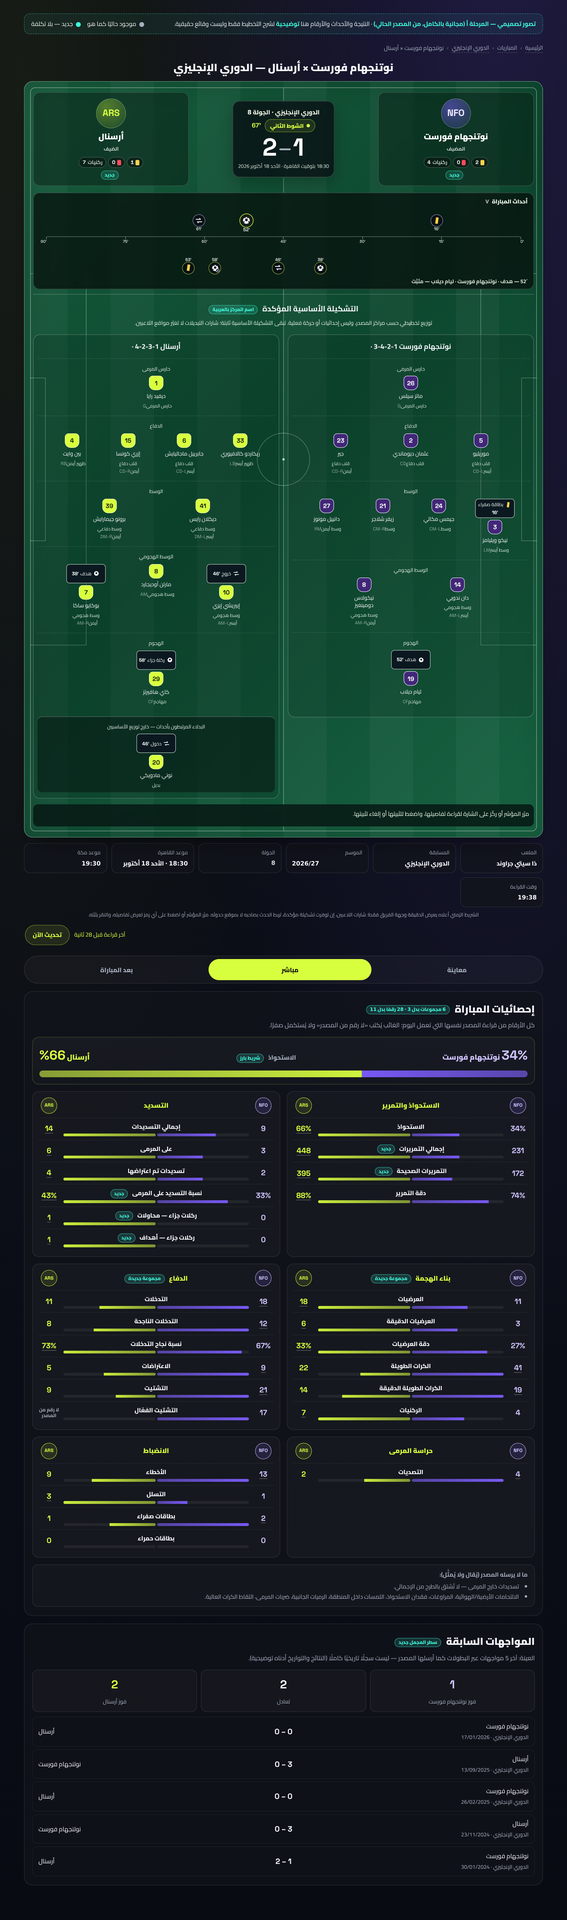
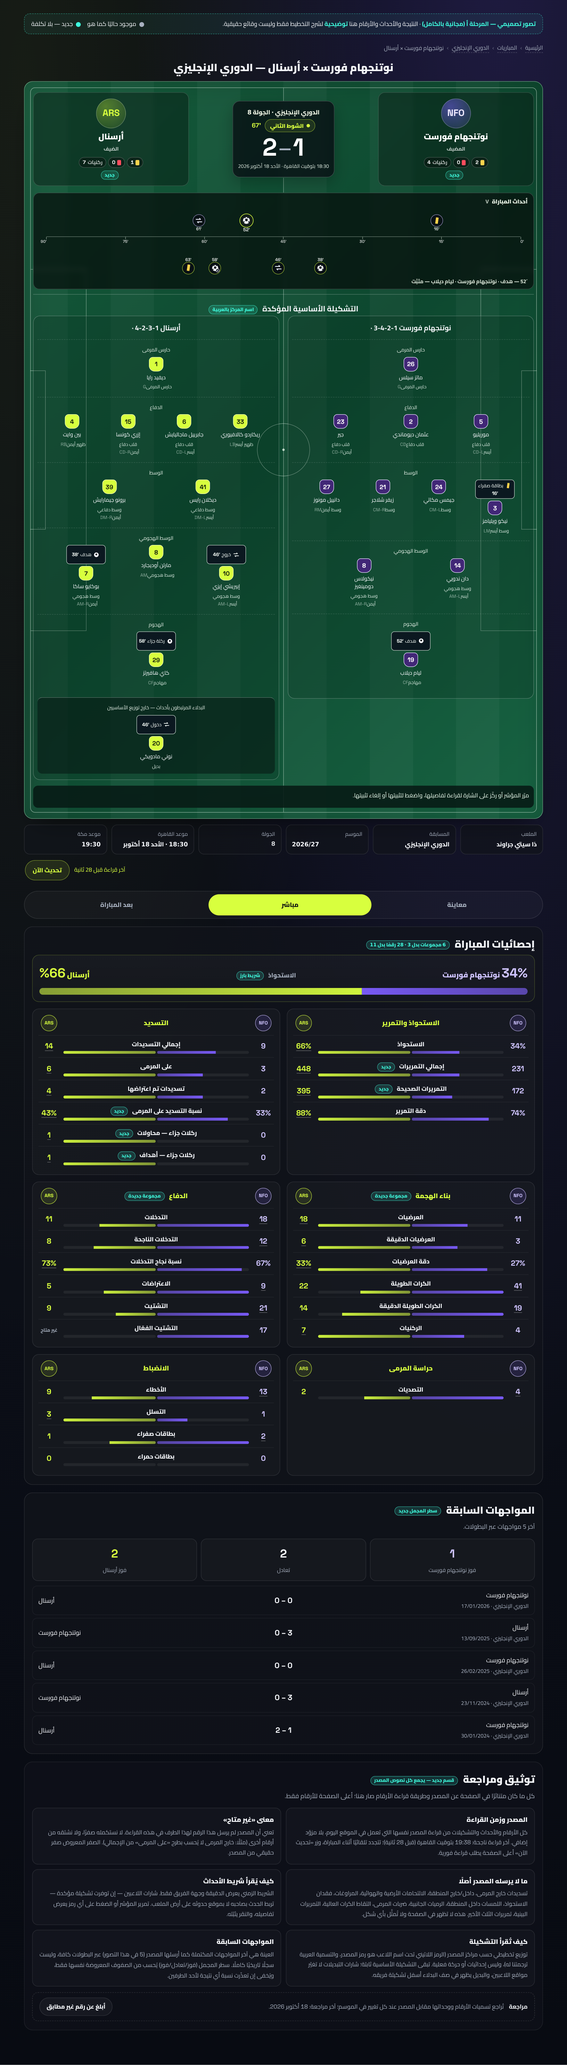
docs(match-center): مراجعة 2 — نقل كل نصوص المصدر إلى قسم «توثيق ومراجعة» آخر الصفحة
- التصور: حذف نصوص المصدر/القراءة من أماكنها (شرح التشكيلة، تنبيه شريط الأحداث، خلية وقت القراءة، مقدمة الإحصائيات، صندوق «ما لا يرسله المصدر»، مقدمة المواجهات) وجمعها في قسم جديد آخر الصفحة
- «لا رقم من المصدر» → «غير متاح» مع شرحها في القسم الجديد
- رسالة المطوّر: بند 3.8 الجديد + تحديث الاختبارات ومعايير القبول
- إعادة توليد اللقطتين

diff --git a/website/docs/mockups/match-center-stats-mockup.html b/website/docs/mockups/match-center-stats-mockup.html
@@ -211,6 +211,17 @@
   .mc-h2h-list .sc { font-weight: 900; font-family: var(--font-latin); font-size: 1rem; }
   .mc-h2h-list .r { text-align: start; } .mc-h2h-list .l { text-align: end; }
 
+  /* توثيق ومراجعة */
+  .mc-docs { border-color: rgba(255,255,255,.08); background: rgba(16,19,27,.55); }
+  .mc-docs-grid { display: grid; gap: 10px; }
+  @media (min-width: 900px) { .mc-docs-grid { grid-template-columns: 1fr 1fr; } }
+  .mc-doc { min-width: 0; padding: 12px 14px; border: 1px solid var(--mc-line); border-radius: 12px; background: rgba(255,255,255,.02); }
+  .mc-doc h3 { margin: 0 0 4px; font-size: .84rem; font-weight: 900; color: var(--mc-text); }
+  .mc-doc p { margin: 0; color: var(--mc-muted); font-size: .76rem; line-height: 1.75; }
+  .mc-docs-review { display: flex; flex-wrap: wrap; align-items: center; justify-content: space-between; gap: 10px 16px; margin-top: 12px; padding: 10px 14px; border: 1px dashed rgba(255,255,255,.14); border-radius: 12px; color: var(--mc-muted); font-size: .76rem; }
+  .mc-docs-review strong { color: var(--mc-text); margin-inline-end: 8px; }
+  .mc-report { min-height: 38px; padding: 6px 14px; border: 1px solid var(--mc-line); border-radius: 999px; background: rgba(255,255,255,.04); color: var(--mc-text); font-size: .76rem; font-weight: 800; }
+
   @media (max-width: 767px) {
     .mc-lineup-squads { grid-template-columns: minmax(0, 1fr); gap: 14px; }
     .mc-lineup-player { flex-basis: 21%; }
@@ -230,7 +241,7 @@
 <div class="mc-container">
 
   <div class="mock-banner" role="note">
-    <div><strong>تصور تصميمي — المرحلة أ (مجانية بالكامل، من المصدر الحالي)</strong> · النتيجة والأحداث والأرقام هنا <strong>توضيحية</strong> لشرح التخطيط فقط وليست وقائع حقيقية.</div>
+    <div><strong>تصور تصميمي — المرحلة أ (مجانية بالكامل)</strong> · النتيجة والأحداث والأرقام هنا <strong>توضيحية</strong> لشرح التخطيط فقط وليست وقائع حقيقية.</div>
     <div class="legend"><span class="l-now">موجود حاليًا كما هو</span><span class="l-new">جديد — بلا تكلفة</span></div>
   </div>
 
@@ -314,7 +325,6 @@
       <!-- التشكيلة الثابتة على الملعب — كما هي + اسم المركز بالعربية (جديد) -->
       <section class="mc-pitch-lineups" aria-label="التشكيلة الأساسية المؤكدة على الملعب">
         <h2>التشكيلة الأساسية المؤكدة <span class="tag">اسم المركز بالعربية</span></h2>
-        <p class="mc-lineup-explainer">توزيع تخطيطي حسب مراكز المصدر، وليس إحداثيات أو حركة فعلية. تبقى التشكيلة الأساسية ثابتة؛ شارات التبديلات لا تغيّر مواقع اللاعبين.</p>
         <div class="mc-lineup-squads">
 
           <section class="mc-lineup-squad" data-side="home" aria-label="نوتنجهام فورست">
@@ -381,9 +391,7 @@
       <div><dt>الجولة</dt><dd class="mc-num">8</dd></div>
       <div><dt>موعد القاهرة</dt><dd>18:30 · الأحد 18 أكتوبر</dd></div>
       <div><dt>موعد مكة</dt><dd>19:30</dd></div>
-      <div><dt>وقت القراءة</dt><dd>19:38</dd></div>
     </dl>
-    <p class="mc-pitch-disclaimer">الشريط الزمني أعلاه يعرض الدقيقة وجهة الفريق فقط؛ شارات اللاعبين، إن توفرت تشكيلة مؤكدة، تربط الحدث بصاحبه لا بموقع حدوثه. مرّر المؤشر أو اضغط على أي رمز لعرض تفاصيله، والنقر يثبّته.</p>
   </section>
 
   <div class="mc-meta"><div class="mc-meta-service"><span class="mc-read" data-level="fresh">آخر قراءة قبل 28 ثانية</span><button class="mc-refresh" type="button">تحديث الآن</button></div></div>
@@ -397,7 +405,6 @@
   <!-- ====== لوحة الإحصائيات — 6 مجموعات بدل 3 ====== -->
   <section class="mc-panel" aria-labelledby="stats-h">
     <h2 id="stats-h">إحصائيات المباراة <span class="tag">6 مجموعات بدل 3 · 28 رقمًا بدل 11</span></h2>
-    <p class="lead">كل الأرقام من قراءة المصدر نفسها التي تعمل اليوم؛ الغائب يُكتب «لا رقم من المصدر» ولا يُستكمل صفرًا.</p>
 
     <div class="mc-possession">
       <div class="mc-possession-head">
@@ -444,7 +451,7 @@
         <div class="mc-stat-row"><span class="mc-stat-val home">67%</span><div class="mc-stat-mid"><span class="mc-stat-label">نسبة نجاح التدخلات</span><div class="mc-stat-bars"><span class="mc-stat-bar home"><i style="width:92%"></i></span><span class="mc-stat-bar away"><i style="width:100%"></i></span></div></div><span class="mc-stat-val away lead">73%</span></div>
         <div class="mc-stat-row"><span class="mc-stat-val home lead">9</span><div class="mc-stat-mid"><span class="mc-stat-label">الاعتراضات</span><div class="mc-stat-bars"><span class="mc-stat-bar home"><i style="width:100%"></i></span><span class="mc-stat-bar away"><i style="width:56%"></i></span></div></div><span class="mc-stat-val away">5</span></div>
         <div class="mc-stat-row"><span class="mc-stat-val home lead">21</span><div class="mc-stat-mid"><span class="mc-stat-label">التشتيت</span><div class="mc-stat-bars"><span class="mc-stat-bar home"><i style="width:100%"></i></span><span class="mc-stat-bar away"><i style="width:43%"></i></span></div></div><span class="mc-stat-val away">9</span></div>
-        <div class="mc-stat-row"><span class="mc-stat-val home">17</span><div class="mc-stat-mid"><span class="mc-stat-label">التشتيت الفعّال</span><div class="mc-stat-bars"><span class="mc-stat-bar home"><i style="width:100%"></i></span><span class="mc-stat-bar away"><i style="width:0%"></i></span></div></div><span class="mc-stat-none">لا رقم من المصدر</span></div>
+        <div class="mc-stat-row"><span class="mc-stat-val home">17</span><div class="mc-stat-mid"><span class="mc-stat-label">التشتيت الفعّال</span><div class="mc-stat-bars"><span class="mc-stat-bar home"><i style="width:100%"></i></span><span class="mc-stat-bar away"><i style="width:0%"></i></span></div></div><span class="mc-stat-none">غير متاح</span></div>
       </article>
 
       <article class="mc-stat-group">
@@ -461,19 +468,12 @@
       </article>
     </div>
 
-    <div class="mc-notes">
-      <strong>ما لا يرسله المصدر (يُقال ولا يُمثَّل):</strong>
-      <ul>
-        <li>تسديدات خارج المرمى — لا تُشتق بالطرح من الإجمالي.</li>
-        <li>الالتحامات الأرضية/الهوائية، المراوغات، فقدان الاستحواذ، اللمسات داخل المنطقة، الرميات الجانبية، ضربات المرمى، التقاط الكرات العالية.</li>
-      </ul>
-    </div>
   </section>
 
   <!-- ====== المواجهات السابقة — سطر المجمل جديد ====== -->
   <section class="mc-panel" aria-labelledby="h2h-h">
     <h2 id="h2h-h">المواجهات السابقة <span class="tag">سطر المجمل جديد</span></h2>
-    <p class="lead">العينة: آخر 5 مواجهات عبر البطولات كما أرسلها المصدر — ليست سجلًا تاريخيًا كاملًا (النتائج والتواريخ أدناه توضيحية).</p>
+    <p class="lead">آخر 5 مواجهات عبر البطولات.</p>
     <div class="mc-h2h-agg">
       <div class="mc-h2h-cell home"><b>1</b><small>فوز نوتنجهام فورست</small></div>
       <div class="mc-h2h-cell"><b>2</b><small>تعادل</small></div>
@@ -486,6 +486,45 @@
       <li><span class="r">أرسنال<br><span class="meta">الدوري الإنجليزي · 23/11/2024</span></span><span class="sc">3 – 0</span><span class="l">نوتنجهام فورست</span></li>
       <li><span class="r">نوتنجهام فورست<br><span class="meta">الدوري الإنجليزي · 30/01/2024</span></span><span class="sc">1 – 2</span><span class="l">أرسنال</span></li>
     </ul>
+  </section>
+
+  <!-- ====== توثيق ومراجعة — كل ما يخص المصدر وطريقة القراءة، في مكان واحد ====== -->
+  <section class="mc-panel mc-docs" aria-labelledby="docs-h">
+    <h2 id="docs-h">توثيق ومراجعة <span class="tag">قسم جديد — يجمع كل نصوص المصدر</span></h2>
+    <p class="lead">كل ما كان متناثرًا في الصفحة عن المصدر وطريقة قراءة الأرقام صار هنا؛ أعلى الصفحة للأرقام فقط.</p>
+    <div class="mc-docs-grid">
+      <article class="mc-doc">
+        <h3>المصدر وزمن القراءة</h3>
+        <p>كل الأرقام والأحداث والتشكيلات من قراءة المصدر نفسها التي تعمل في الموقع اليوم، بلا مزوّد إضافي. آخر قراءة ناجحة: <span class="num">19:38</span> بتوقيت القاهرة (قبل <span class="num">28</span> ثانية)؛ تتجدد تلقائيًا أثناء المباراة، وزر «تحديث الآن» أعلى الصفحة يطلب قراءة فورية.</p>
+      </article>
+      <article class="mc-doc">
+        <h3>معنى «غير متاح»</h3>
+        <p>تعني أن المصدر لم يرسل هذا الرقم لهذا الطرف في هذه القراءة. لا نستكمله صفرًا، ولا نشتقه من أرقام أخرى (مثلًا: خارج المرمى لا يُحسب بطرح «على المرمى» من الإجمالي). الصفر المعروض صفر حقيقي من المصدر.</p>
+      </article>
+      <article class="mc-doc">
+        <h3>ما لا يرسله المصدر أصلًا</h3>
+        <p>تسديدات خارج المرمى، داخل/خارج المنطقة، الالتحامات الأرضية والهوائية، المراوغات، فقدان الاستحواذ، اللمسات داخل المنطقة، الرميات الجانبية، ضربات المرمى، التقاط الكرات العالية، التمريرات البينية، تمريرات الثلث الأخير. هذه لا تظهر في الصفحة ولا تُمثَّل بأي شكل.</p>
+      </article>
+      <article class="mc-doc">
+        <h3>كيف يُقرأ شريط الأحداث</h3>
+        <p>الشريط الزمني يعرض الدقيقة وجهة الفريق فقط. شارات اللاعبين — إن توفرت تشكيلة مؤكدة — تربط الحدث بصاحبه لا بموقع حدوثه على أرض الملعب. تمرير المؤشر أو الضغط على أي رمز يعرض تفاصيله، والنقر يثبّته.</p>
+      </article>
+      <article class="mc-doc">
+        <h3>كيف تُقرأ التشكيلة</h3>
+        <p>توزيع تخطيطي حسب مراكز المصدر (الرمز اللاتيني تحت اسم اللاعب هو رمز المصدر، والتسمية العربية ترجمتنا له)، وليس إحداثيات أو حركة فعلية. تبقى التشكيلة الأساسية ثابتة؛ شارات التبديلات لا تغيّر مواقع اللاعبين، والبديل يظهر في صف البدلاء أسفل تشكيلة فريقه.</p>
+      </article>
+      <article class="mc-doc">
+        <h3>المواجهات السابقة</h3>
+        <p>العينة هي آخر المواجهات المكتملة كما أرسلها المصدر (<span class="num">5</span> في هذا التصور) عبر البطولات كافة، وليست سجلًا تاريخيًا كاملًا. سطر المجمل (فوز/تعادل/فوز) يُحسب من الصفوف المعروضة نفسها فقط، ويُخفى إن تعذّرت نسبة أي نتيجة لأحد الطرفين.</p>
+      </article>
+    </div>
+    <div class="mc-docs-review">
+      <div>
+        <strong>مراجعة</strong>
+        <span>تُراجع تسميات الأرقام ووحداتها مقابل المصدر عند كل تغيير في الموسم؛ آخر مراجعة: <span class="num">18</span> أكتوبر <span class="num">2026</span>.</span>
+      </div>
+      <button type="button" class="mc-report">أبلغ عن رقم غير مطابق</button>
+    </div>
   </section>
 
 </div>

diff --git a/website/docs/mockups/match-center-phase-a-dev-brief.md b/website/docs/mockups/match-center-phase-a-dev-brief.md
@@ -1,6 +1,6 @@
 # رسالة إلى المطوّر — تنفيذ المرحلة أ (المجانية) في مركز المباراة وفق التصور الجديد
 
-**التاريخ:** 18 أكتوبر 2026 · **الأولوية:** متوسطة · **التقدير:** يوم إلى يومان عمل
+**التاريخ:** 18 أكتوبر 2026 (مراجعة 2: قسم «توثيق ومراجعة») · **الأولوية:** متوسطة · **التقدير:** يوم إلى يومان عمل
 
 ---
 
@@ -10,6 +10,9 @@
 (ESPN `summary.boxscore.teams[].statistics`) **بلا أي مزوّد جديد ولا تكلفة**، مع أربع
 إضافات بصرية صغيرة. **الملعب الحالي (الإطار الأخضر + شريط الأحداث + ملعب التشكيلة) يبقى
 كما هو تمامًا**؛ لا نلمس منطقه ولا تخطيطه.
+
+**مراجعة 2:** كل النصوص التي تتحدث عن المصدر أو طريقة قراءة الأرقام **تُحذف من أماكنها
+المتفرقة وتُجمع في قسم واحد آخر الصفحة بعنوان «توثيق ومراجعة»** (التفصيل في 3.8).
 
 ---
 
@@ -33,8 +36,9 @@
 1. **المصدر الحالي فقط.** لا استدعاءات جديدة، لا مزوّد مدفوع، لا نسخ أو كشط من أي موقع آخر.
 2. **لا اشتقاق.** «خارج المرمى» لا يُحسب بطرح «على المرمى» من الإجمالي، ولا أي قيمة مشتقة
    من قيمتين (الاختبار الحالي في `test-match-center-php.mjs` يحرس هذا — أبقه).
-3. **الغياب غياب.** القيمة `null` تُعرض «لا رقم من المصدر»، ولا تُستكمل صفرًا، والصف الذي
-   لا قيمة فيه للطرفين لا يُرسل أصلًا (سلوك `mc_read_statistics` الحالي — أبقه).
+3. **الغياب غياب.** القيمة `null` تُعرض بكلمة **«غير متاح»** (بدل «لا رقم من المصدر» — انظر 3.8)،
+   ولا تُستكمل صفرًا، والصف الذي لا قيمة فيه للطرفين لا يُرسل أصلًا (سلوك `mc_read_statistics`
+   الحالي — أبقه). معنى الكلمة يُشرح مرة واحدة في قسم «توثيق ومراجعة».
 4. **الملعب لا يُمس.** `.mc-pitch-frame` و`.mc-pitch-events` و`.mc-pitch-lineups` ومنطقها
    في `MatchCenterVisuals.tsx` تبقى كما هي؛ الإضافتان داخلها (العدّادات واسم المركز)
    إضافة عناصر فقط بلا تغيير في البنية أو السلوك.
@@ -189,6 +193,39 @@ export const STAT_GROUPS = [
 نقاط الاستجابة: ≤900px المجموعات عمود واحد؛ ≤767px التشكيلتان تحت بعضهما (قائم)؛
 ≤480px إخفاء العلامات الدقيقة للمحور (`.mc-pitch-tick--minor`، قائم).
 
+### 3.8 قسم «توثيق ومراجعة» آخر الصفحة (مراجعة 2) — وحذف نصوص المصدر من أماكنها
+
+**المبدأ:** أعلى الصفحة للأرقام فقط؛ أي جملة عن المصدر أو زمن القراءة أو طريقة قراءة
+الأرقام تُنقل إلى لوحة واحدة آخر الصفحة `section.mc-panel.mc-docs` بعنوان «توثيق ومراجعة».
+النصوص الجاهزة حرفيًا في التصور (`match-center-stats-mockup.html`، آخر `<section>`).
+
+**ما يُحذف من مكانه الحالي (وينتقل إلى القسم):**
+
+| المكان الحالي | النص | إلى أين |
+|---|---|---|
+| `MatchCenterVisuals.tsx` ~80 `.mc-lineup-explainer` | «توزيع تخطيطي حسب مراكز المصدر…» | بطاقة «كيف تُقرأ التشكيلة» |
+| `MatchCenterVisuals.tsx` ~460 `.mc-pitch-disclaimer` | «الشريط الزمني أعلاه يعرض الدقيقة وجهة الفريق فقط…» | بطاقة «كيف يُقرأ شريط الأحداث» |
+| `MatchCenterVisuals.tsx` ~457 خلية `وقت القراءة` في `dl.mc-match-facts` | قيمة `readAtLabel` | بطاقة «المصدر وزمن القراءة» |
+| `MatchCenterStatGroups.tsx` ~31 `.mc-stat-side-none` | «لا رقم من المصدر» → تصبح **«غير متاح»** | شرحها في بطاقة «معنى «غير متاح»» |
+| صندوق «ما لا يرسله المصدر» (جديد في المرحلة أ) | القائمة | بطاقة «ما لا يرسله المصدر أصلًا» |
+| نص العينة فوق قائمة المواجهات | «آخر N مواجهات كما أرسلها المصدر…» → يبقى سطر محايد «آخر N مواجهات عبر البطولات.» | بطاقة «المواجهات السابقة» |
+
+**ما يبقى في مكانه:** سطر الحالة `.mc-meta` («آخر قراءة قبل N ثانية» + زر «تحديث الآن»)
+لأنه عنصر تحكم حي لا نصًا توضيحيًا؛ وتلميح التفاعل أسفل التشكيلة `.mc-lineup-event-detail`.
+
+**بنية القسم (6 بطاقات + سطر مراجعة):**
+1. المصدر وزمن القراءة — يحتوي `readAtLabel` وعمر القراءة، وإشارة إلى زر «تحديث الآن».
+2. معنى «غير متاح» — لا صفر، لا اشتقاق، الصفر المعروض صفر حقيقي.
+3. ما لا يرسله المصدر أصلًا — القائمة الثابتة.
+4. كيف يُقرأ شريط الأحداث — نص `.mc-pitch-disclaimer` الحالي.
+5. كيف تُقرأ التشكيلة — نص `.mc-lineup-explainer` الحالي + جملة عن الرمز اللاتيني والتسمية العربية.
+6. المواجهات السابقة — العينة وطريقة حساب سطر المجمل.
+7. سطر «مراجعة»: تاريخ آخر مراجعة للتسميات (ثابت من إعدادات/ثابت في الكود) + زر «أبلغ عن رقم غير مطابق»
+   (يفتح قناة الإبلاغ الحالية في الموقع إن وُجدت؛ وإلا `mailto:` مؤقتًا — لا نبني نموذجًا جديدًا الآن).
+
+**فئات CSS:** `.mc-docs`, `.mc-docs-grid` (عمودان ≥900px), `.mc-doc`, `.mc-docs-review`, `.mc-report`
+— جاهزة في `<style>` التصور.
+
 ---
 
 ## 4. حالات الحافة التي يجب أن تُختبر
@@ -198,6 +235,7 @@ export const STAT_GROUPS = [
 | قبل المباراة، `statistics === null` | لا شريط استحواذ، لا عدّادات، لا صندوق «ما لا يرسله المصدر»؛ باقي الصفحة كما اليوم |
 | المصدر يرسل جهة واحدة فقط لصف ما | القيمة الموجودة تُعرض، والأخرى «لا رقم من المصدر»، والشريط للطرف الموجود فقط |
 | صفر حقيقي (`0` من المصدر) | يُعرض `0` ولا يُعامل كغياب |
+| قسم «توثيق ومراجعة» قبل المباراة | يُعرض دائمًا (نصوصه ثابتة)، ويُخفى فقط سطر «آخر قراءة» إن لم تكن هناك قراءة بعد |
 | مجموعة بلا أي صف وارد | تُخفى كاملة (مثلًا «حراسة المرمى» إن غابت `saves`) |
 | اسم إحصائية جديد غير معروف | يبقى في `source-other` كما اليوم — لا يُرمى |
 | اسم فريق في المواجهات لا يطابق الطرفين | سطر المجمل يُخفى بالكامل |
@@ -211,7 +249,11 @@ export const STAT_GROUPS = [
 **تحديث ما سينكسر:**
 - `website/scripts/test-match-center-analysis.mjs` السطور ~75–84: من 3 مجموعات إلى 6
   (المعرّفات، التسميات، وترتيب المفاتيح داخل كل مجموعة؛ `wonCorners` صارت في `build-up`).
-- `website/tests/match-center-analysis.spec.ts` السطر ~160: قائمة عناوين المجموعات.
+- `website/tests/match-center-analysis.spec.ts` السطر ~160: قائمة عناوين المجموعات؛
+  والسطران ~158 و~175: النص المتوقع يصبح «غير متاح» بدل «لا رقم من المصدر».
+- أي اختبار يتحقق من وجود `.mc-lineup-explainer` أو `.mc-pitch-disclaimer` أو خلية «وقت القراءة»
+  في أماكنها القديمة (`tests/match-center-lineups.spec.ts`, `match-center-events.spec.ts`,
+  `scripts/test-match-center-pages.mjs`) يُحدَّث ليجدها داخل `.mc-docs`.
 - `website/scripts/test-match-center-php.mjs` السطور ~260–270: أضف الأسماء الـ17 إلى
   حلقة التأكد من وجودها في `MC_STAT_LABELS`؛ أبقِ فحص «لا اشتقاق لخارج المرمى».
 - راجع أي مرجع لـ`STAT_GROUPS`/`possessionPct` في: `tests/fixture-stats.spec.ts`،
@@ -225,6 +267,7 @@ export const STAT_GROUPS = [
 - `headToHeadSummary`: النسبة الصحيحة + إعادة `null` عند عدم تطابق اسم.
 - Playwright: العدّادات تُخفى عند `null`؛ شريط الاستحواذ لا يظهر قبل المباراة؛
   لا تمرير أفقي عند 390px.
+- Playwright: لا يظهر نص يحتوي كلمة «المصدر» في أي مكان بالصفحة **خارج** `.mc-docs`.
 
 التشغيل: `npm test` ثم `npm run test:ui` داخل `website/`.
 
@@ -235,6 +278,7 @@ export const STAT_GROUPS = [
 - [ ] الملعب الحالي مطابق بصريًا لما قبل التعديل (قارن لقطات `node scripts/capture-match-center.mjs` قبل/بعد).
 - [ ] 6 مجموعات بالترتيب أعلاه، وكل الصفوف الـ28 تظهر عندما يرسلها المصدر.
 - [ ] شريط الاستحواذ، العدّادات، شعارات الأعمدة، سطر المجمل، أسماء المراكز — كما في التصور.
+- [ ] قسم «توثيق ومراجعة» آخر الصفحة ببطاقاته الست وسطر المراجعة، ولا نص عن المصدر خارجه.
 - [ ] لا تمرير أفقي على 390px ولا 1180px.
 - [ ] كل الاختبارات خضراء.
 - [ ] PR على فرع مستقل مع لقطتين (سطح مكتب + موبايل) في الوصف.
@@ -252,6 +296,6 @@ export const STAT_GROUPS = [
 ## 8. ترتيب العمل المقترح
 
 1. **اليوم الأول:** 3.1 + 3.2 + 3.3 مع تحديث الاختبارات وإضافة الجديدة (لا واجهة بعد).
-2. **اليوم الثاني:** 3.4 → 3.7 ثم لقطات القبل/البعد وفتح الـPR.
+2. **اليوم الثاني:** 3.4 → 3.8 ثم لقطات القبل/البعد وفتح الـPR.
 
 أي سؤال عن تسمية أو سلوك غامض: ارجع إلى تقرير الجدوى أولًا، ثم اسأل — ولا تفترض.
